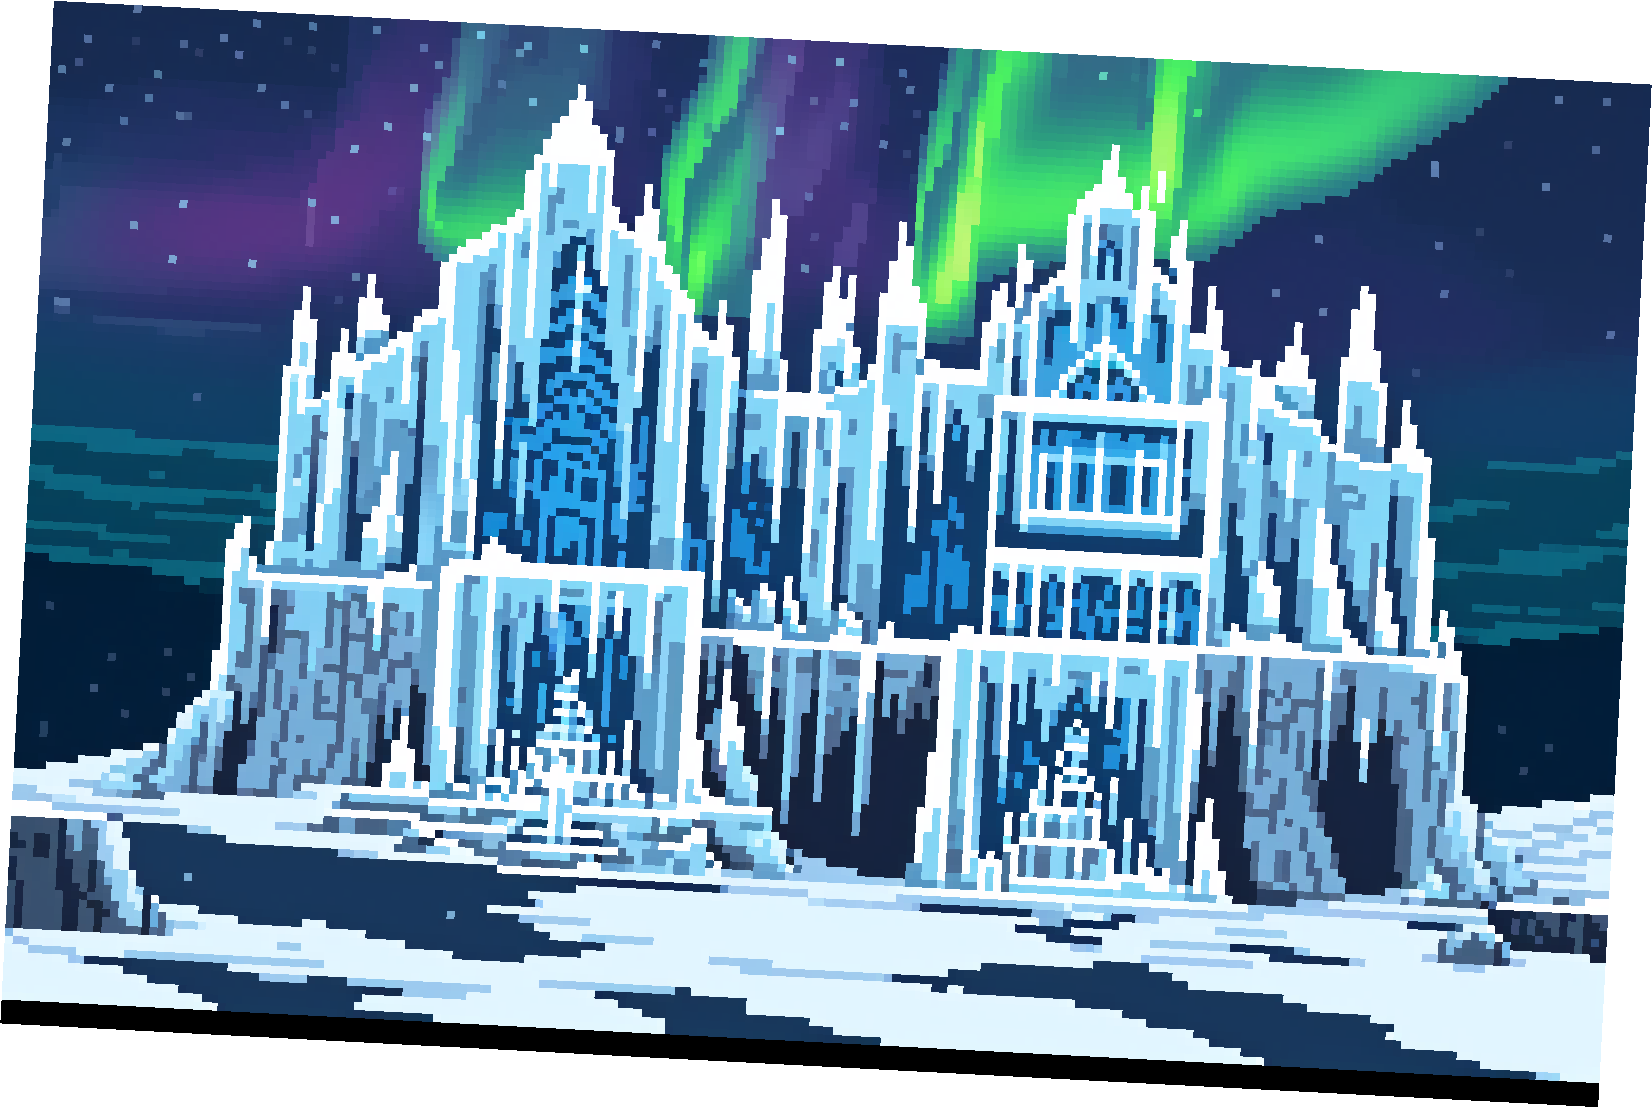
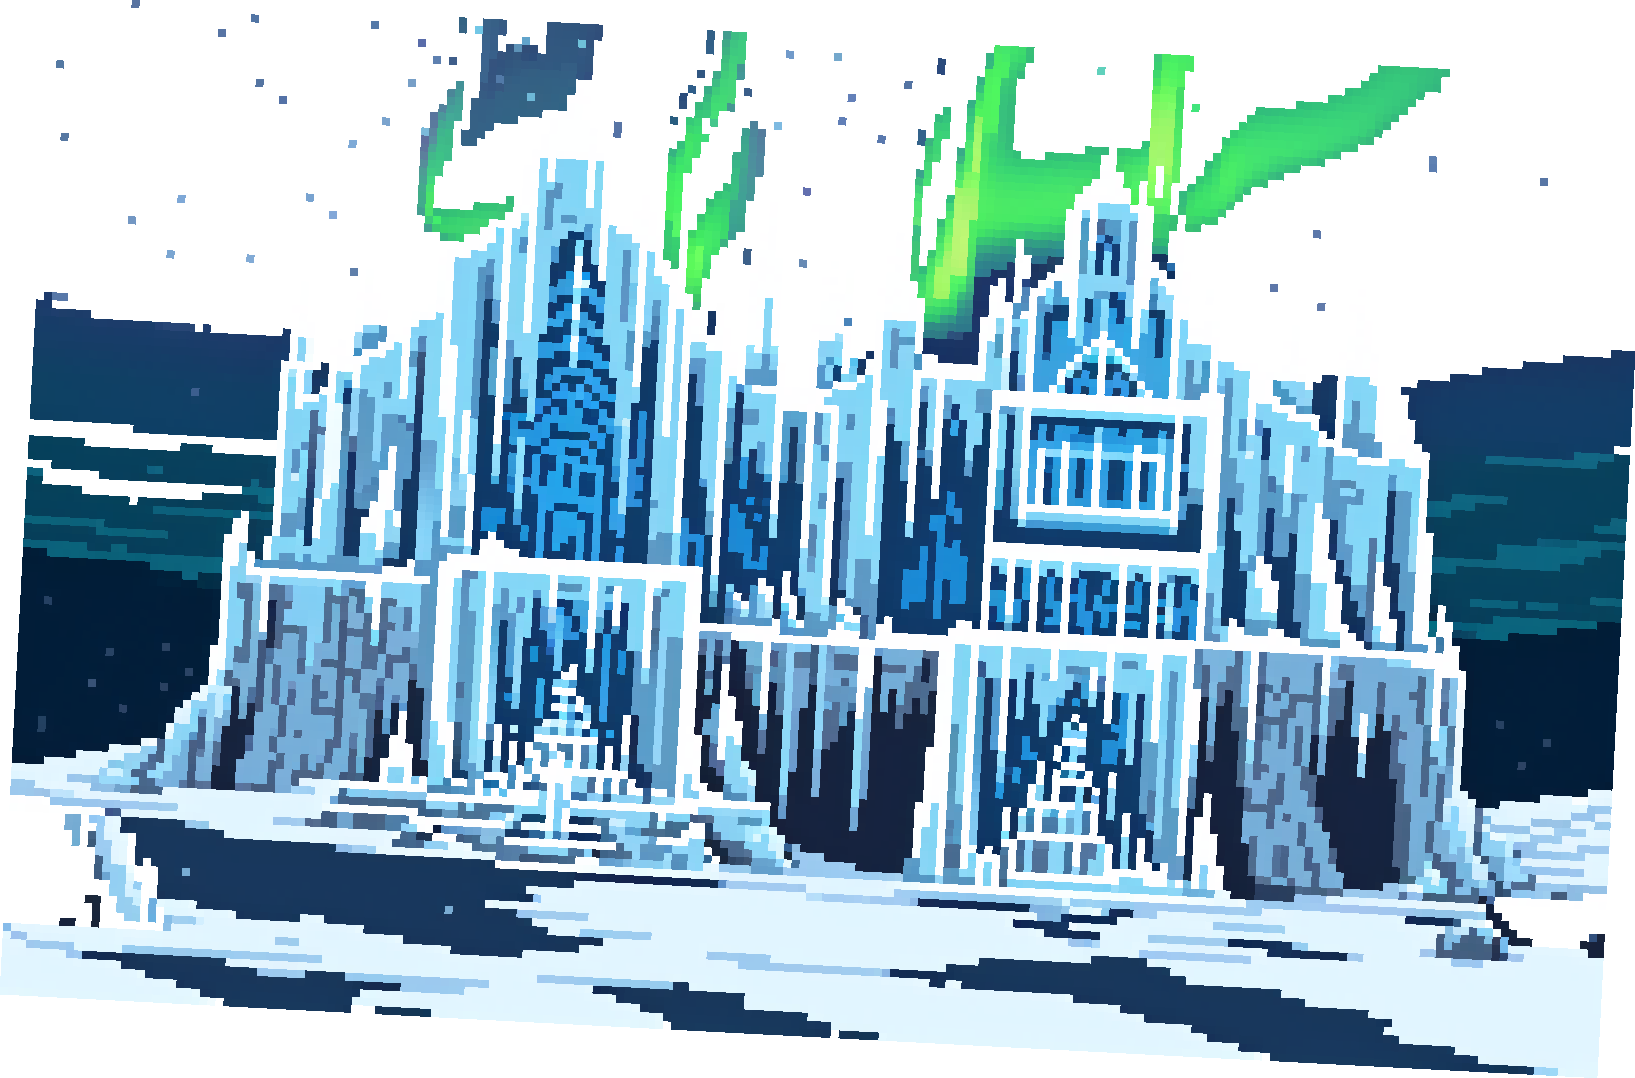
Make Frost Dungeon look like a real building on the map
- Flood-filled night-sky/aurora out of the source PNG so only the
  castle silhouette remains (398k bg pixels -> transparent).
- Castle now bottom-anchored to the snow line with a ground shadow
  + subtle icy shimmer instead of the floating glow halo.
- Sized 128x96 with proper aspect so spires read vertically.
- Title v74 -> v75.

diff --git a/world/src/scenes/WorldScene.js b/world/src/scenes/WorldScene.js
@@ -603,29 +603,34 @@ class WorldScene extends Phaser.Scene {
     }
 
     // ── Frost Dungeon entrance (top of Frost Valley) ──
-    // Tiles 28 form a 3x3 patch centered at (38, 3); sprite is rendered at 96x96 over it.
+    // Tiles 28 form a 3x3 patch centered at (38, 3); castle stands on the south edge.
     const fdCenterX = 38 * T + T / 2;
     const fdCenterY = 3 * T + T / 2;
+    const fdBaseY = fdCenterY + T * 1.5; // ground line: south edge of 3x3 footprint
+    // Ground shadow — anchors the structure to the snow
+    this.add.ellipse(fdCenterX, fdBaseY - 4, 110, 20, 0x1a3a5a, 0.35).setDepth(4);
+    // Castle sprite, bottom-center anchored so it "stands" on the snow
     if (this.textures.exists('frost_dungeon')) {
-      this.add.image(fdCenterX, fdCenterY, 'frost_dungeon')
-        .setDisplaySize(96, 96).setDepth(5);
+      this.add.image(fdCenterX, fdBaseY, 'frost_dungeon')
+        .setOrigin(0.5, 1)
+        .setDisplaySize(128, 96)
+        .setDepth(5);
     } else {
-      // Fallback if asset failed to load
-      this.add.rectangle(fdCenterX, fdCenterY, 96, 96, 0x88bbdd, 0.9)
+      this.add.rectangle(fdCenterX, fdBaseY - 48, 96, 96, 0x88bbdd, 0.9)
         .setStrokeStyle(2, 0xccddff).setDepth(5);
     }
-    // Soft icy glow underneath
-    const fdGlow = this.add.circle(fdCenterX, fdCenterY, 64, 0x88ccff, 0.18).setDepth(4);
+    // Subtle icy shimmer at the base
+    const fdShimmer = this.add.ellipse(fdCenterX, fdBaseY - 8, 90, 16, 0x88ccff, 0.22).setDepth(4);
     this.tweens.add({
-      targets: fdGlow, scaleX: 1.2, scaleY: 1.2, alpha: 0.08,
-      duration: 1800, yoyo: true, repeat: -1,
+      targets: fdShimmer, alpha: 0.08, scaleX: 1.15,
+      duration: 2200, yoyo: true, repeat: -1,
     });
-    // Label above
-    this.add.text(fdCenterX, fdCenterY - 60, 'FROST DUNGEON', {
+    // Label above the spires
+    this.add.text(fdCenterX, fdBaseY - 110, 'FROST DUNGEON', {
       fontSize: '11px', fontFamily: 'Georgia, serif', fontStyle: 'bold', color: '#bfe4ff',
       backgroundColor: '#00000099', padding: { x: 4, y: 2 },
     }).setOrigin(0.5).setDepth(7);
-    this._frostDungeon = { x: fdCenterX, y: fdCenterY };
+    this._frostDungeon = { x: fdCenterX, y: fdBaseY - 32 };
 
     // ── Wave 3: Building Interactions ──
     this._interactBuildings = [

diff --git a/world/src/scenes/BootScene.js b/world/src/scenes/BootScene.js
@@ -258,7 +258,7 @@ class BootScene extends Phaser.Scene {
       fontSize: '18px', fontFamily: 'Georgia, serif', fontStyle: 'italic', color: '#aaaacc',
     }).setOrigin(0.5);
 
-    this.add.text(width / 2, height * 0.34, 'v74', {
+    this.add.text(width / 2, height * 0.34, 'v75', {
       fontSize: '11px', fontFamily: 'monospace', color: '#555577',
     }).setOrigin(0.5);
 